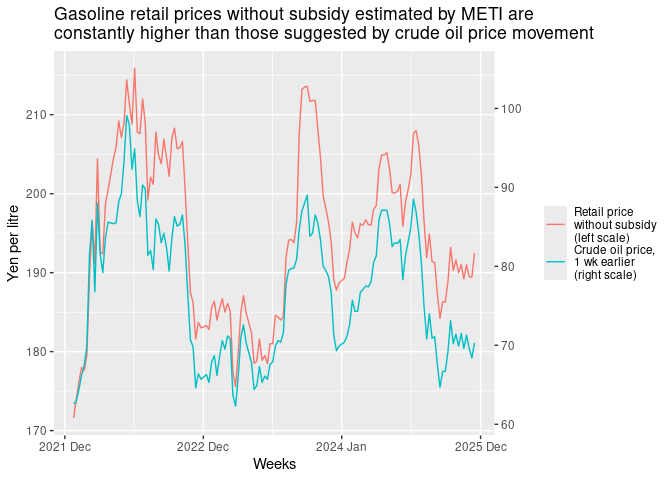
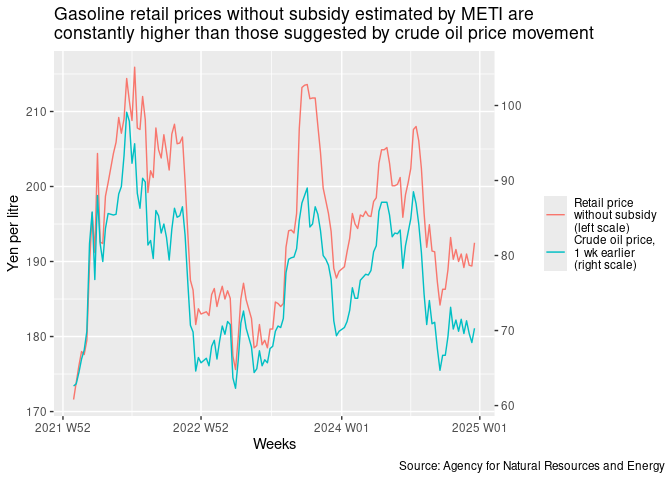
correct x-axis text in retail prices without subsidy

diff --git a/README.md b/README.md
@@ -25,7 +25,7 @@ Mitsuo Shiota
 - [Wholesalers’ margin over Dubai crude oil
   price](#wholesalers-margin-over-dubai-crude-oil-price)
 
-Updated: 2024-12-18
+Updated: 2024-12-19
 
 ## Summary
 
